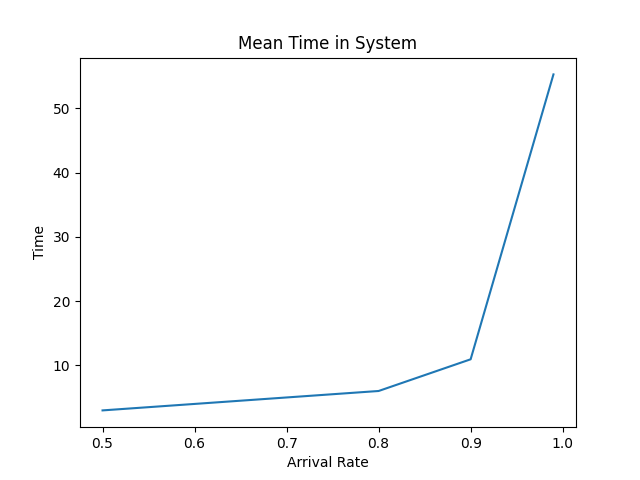
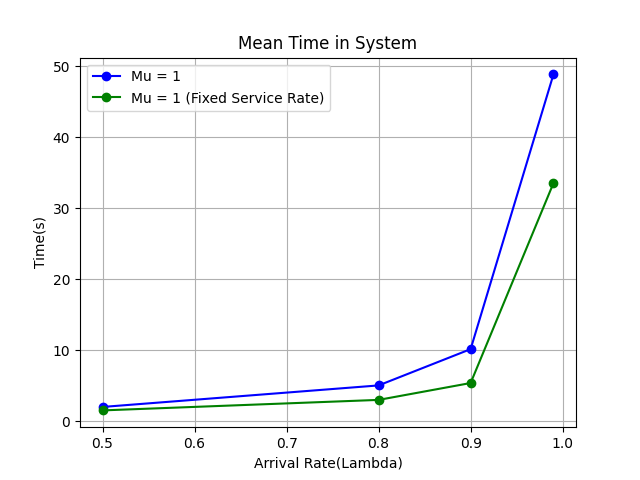
Major fixes in simulation

diff --git a/sim_mp.py b/sim_mp.py
@@ -51,23 +51,24 @@ def simulation(arrival_rate, service_rate, simulation_time, number_of_queues):
         queue_index = random.randint(0, number_of_queues-1)
         # print(f"\nQueue Index: {queue_index} -> Arrival Time: {arrival_time}")
 
-        # Create a job with exponential service time
-        job_time = exponential_random_variable(service_rate)
+        if service_rate >= 0:
+            job_time = exponential_random_variable(service_rate) # Create a job with exponential service time
+        else:
+            job_time = 1 # Create a job with fixed service time (1 second)
         
         # Update the queue free time
-
         if queue_free_time[queue_index] < arrival_time:
             queue_free_time[queue_index] = arrival_time + job_time
+            if queue_free_time[queue_index] <= simulation_time:
+                waiting_time += 0
+                time_in_system += job_time
+                done += 1
         else:
             queue_free_time[queue_index] += job_time
-
-        if queue_free_time[queue_index] <= simulation_time:
-            waiting_time += queue_free_time[queue_index] - arrival_time
-            time_in_system += queue_free_time[queue_index] - arrival_time + job_time
-            done += 1
-        else:
-            # print(f" Job arrived at {arrival_time} could not be processed in queue {queue_index}.") # Higher arrival_time than simulation_time
-            pass
+            if queue_free_time[queue_index] <= simulation_time:
+                waiting_time += queue_free_time[queue_index] - arrival_time - job_time
+                time_in_system += queue_free_time[queue_index] - arrival_time
+                done += 1
 
         if len(arrival_times) == 0: # Arrival list is empty
             break # Stop the simulation when all jobs have been processed
@@ -76,7 +77,12 @@ def simulation(arrival_rate, service_rate, simulation_time, number_of_queues):
     print('\n' + '='*50) 
     # print(queue_free_time)
     print(f"-> Lambda = {arrival_rate}")
-    print(f"-> Mu = {service_rate}")
+
+    if service_rate >= 0:
+        print(f"-> Mu = {service_rate}")
+    else:
+        print(f"-> Mu = 1 (Fixed Service Time)")
+
     print(f"Number of jobs arrived: {jobs}")
     print(f"Number of jobs completed: {done}")
     print(f"Mean waiting time: {waiting_time/done}")
@@ -84,31 +90,33 @@ def simulation(arrival_rate, service_rate, simulation_time, number_of_queues):
     print(f"Elapsed Time: {time.time() - elapsed_time}")
     print('='*50)
 
-    print("Simulation finished!")
-
     return time_in_system/done, waiting_time/done
 
 if __name__ == "__main__":
     arrival_rate_list = [0.5, 0.8, 0.9, 0.99] # lambda
-    service_rate = 1 # mu
+    service_rate = [1, -1] # mu [-1 for fixed service Time]
     simulation_time = 10000 # 10000 seconds
     number_of_queues = 100 # Number of M/M/1 FIFO queues
 
-    result = []
+    results = []
+    tuple =  []
 
-    # Create a pool of workers
+    for arrival_rate in arrival_rate_list:
+        for mu in service_rate:
+            tuple.append((arrival_rate, mu, simulation_time, number_of_queues))
+
+    # Multiprocessing
     pool = mp.Pool(mp.cpu_count())
-    result = pool.starmap(simulation, [(arrival_rate, service_rate, simulation_time, number_of_queues) for arrival_rate in arrival_rate_list])
+    results = pool.starmap(simulation, tuple)
     pool.close()
-
-    plt.plot(arrival_rate_list, [r[0] for r in result], label='Mean Time in System')
+    print("Simulation Finished!")
+    
+    # Plotting
+    plt.plot(arrival_rate_list, [results[0][0], results[2][0], results[4][0], results[6][0]], label='Mu = 1', color = 'blue', marker='o')
+    plt.plot(arrival_rate_list, [results[1][0], results[3][0], results[5][0], results[7][0]], label='Mu = 1 (Fixed Service Time)', color = 'green', marker='o')
     plt.title('Mean Time in System')
-    plt.xlabel('Arrival Rate')
-    plt.ylabel('Time')
+    plt.xlabel('Arrival Rate(Lambda)')
+    plt.ylabel('Time(s)')
+    plt.legend()
+    plt.grid()
     plt.show()
-
-    # plt.plot(arrival_rate_list, [r[1] for r in result], label='Mean Waiting Time')
-    # plt.title('Mean Waiting Time')
-    # plt.xlabel('Arrival Rate')
-    # plt.ylabel('Time')
-    # plt.show()

diff --git a/sim.py b/sim.py
@@ -49,23 +49,24 @@ def simulation(arrival_rate, service_rate, simulation_time, number_of_queues):
         queue_index = random.randint(0, number_of_queues-1)
         # print(f"\nQueue Index: {queue_index} -> Arrival Time: {arrival_time}")
 
-        # Create a job with exponential service time
-        job_time = exponential_random_variable(service_rate)
+        if service_rate >= 0:
+            job_time = exponential_random_variable(service_rate) # Create a job with exponential service time
+        else:
+            job_time = 1 # Create a job with fixed service time (1 second)
         
         # Update the queue free time
-
         if queue_free_time[queue_index] < arrival_time:
             queue_free_time[queue_index] = arrival_time + job_time
+            if queue_free_time[queue_index] <= simulation_time:
+                waiting_time += 0
+                time_in_system += job_time
+                done += 1
         else:
             queue_free_time[queue_index] += job_time
-
-        if queue_free_time[queue_index] <= simulation_time:
-            waiting_time += queue_free_time[queue_index] - arrival_time
-            time_in_system += queue_free_time[queue_index] - arrival_time + job_time
-            done += 1
-        else:
-            # print(f" Job arrived at {arrival_time} could not be processed in queue {queue_index}.") # Higher arrival_time than simulation_time
-            pass
+            if queue_free_time[queue_index] <= simulation_time:
+                waiting_time += queue_free_time[queue_index] - arrival_time - job_time
+                time_in_system += queue_free_time[queue_index] - arrival_time
+                done += 1
 
         if len(arrival_times) == 0: # Arrival list is empty
             break # Stop the simulation when all jobs have been processed
@@ -74,15 +75,18 @@ def simulation(arrival_rate, service_rate, simulation_time, number_of_queues):
     print('\n' + '='*50) 
     # print(queue_free_time)
     print(f"-> Lambda = {arrival_rate}")
-    print(f"-> Mu = {service_rate}")
+
+    if service_rate >= 0:
+        print(f"-> Mu = {service_rate}")
+    else:
+        print(f"-> Mu = 1 (Fixed Service Time)")
+    
     print(f"Number of jobs arrived: {jobs}")
     print(f"Number of jobs completed: {done}")
     print(f"Mean waiting time: {waiting_time/done}")
     print(f"Mean time in the system: {time_in_system/done}")
     print(f"Elapsed Time: {time.time() - elapsed_time}")
     print('='*50)
-
-    print("Simulation finished!")
 
     return time_in_system/done, waiting_time/done
 
@@ -93,18 +97,23 @@ if __name__ == "__main__":
     number_of_queues = 100 # Number of M/M/1 FIFO queues
 
     result = []
-
     for arrival_rate in arrival_rate_list:
         result.append(simulation(arrival_rate, service_rate, simulation_time, number_of_queues))
 
-    plt.plot(arrival_rate_list, [r[0] for r in result], label='Mean Time in System')
-    plt.title('Mean Time in System')
-    plt.xlabel('Arrival Rate')
-    plt.ylabel('Time')
-    plt.show()
+    # Second exercise with fixed service rate
+    service_rate = -1 # mu = 1s (Fixed)
+    result_1 = []
+    for arrival_rate in arrival_rate_list:
+        result_1.append(simulation(arrival_rate, service_rate, simulation_time, number_of_queues))
 
-    # plt.plot(arrival_rate_list, [r[1] for r in result], label='Mean Waiting Time')
-    # plt.title('Mean Waiting Time')
-    # plt.xlabel('Arrival Rate')
-    # plt.ylabel('Time')
-    # plt.show()
+    print("Simulation Finished!")
+
+    # Plotting
+    plt.plot(arrival_rate_list, [r[0] for r in result], label='Mean Time in System', color = 'blue', marker='o')
+    plt.plot(arrival_rate_list, [r[0] for r in result_1], label='Mean Time in System (Fixed Service Time)', color = 'green', marker='o')
+    plt.title('Mean Time in System')
+    plt.xlabel('Arrival Rate(Lambda)')
+    plt.ylabel('Time(s)')
+    plt.legend()
+    plt.grid()
+    plt.show()
